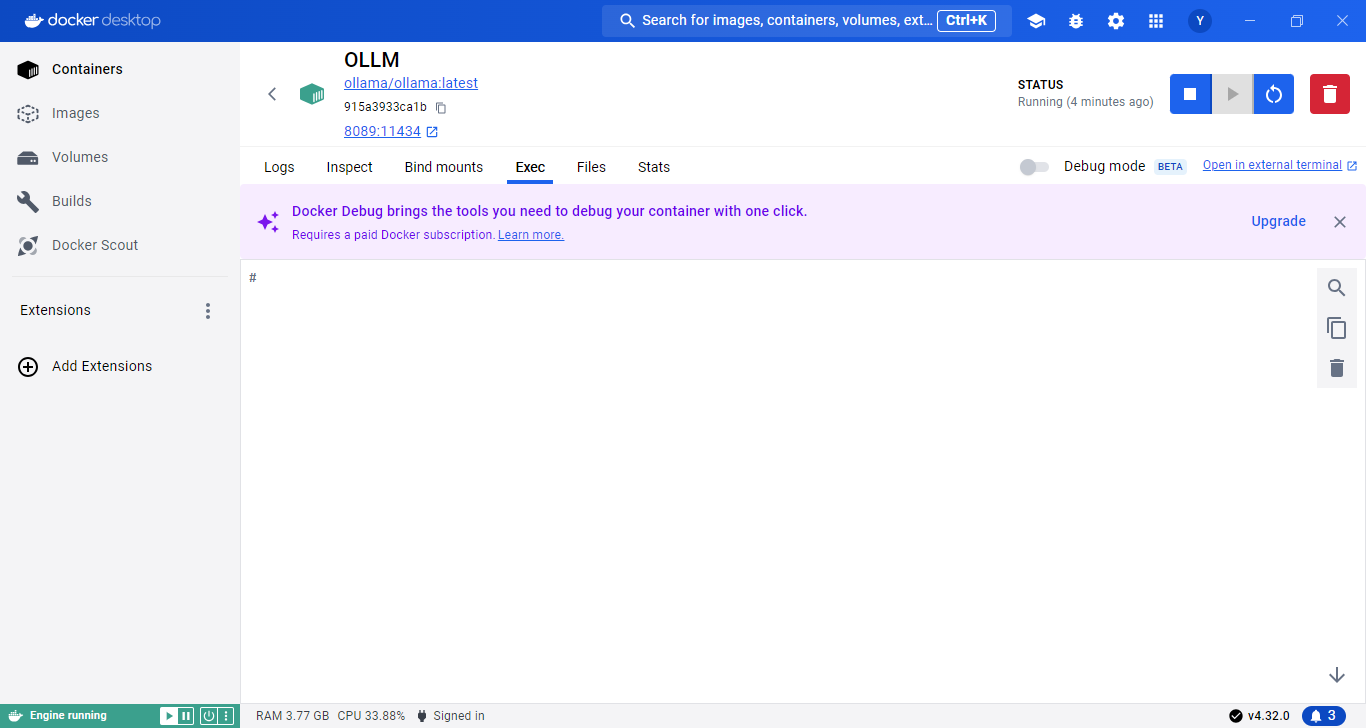
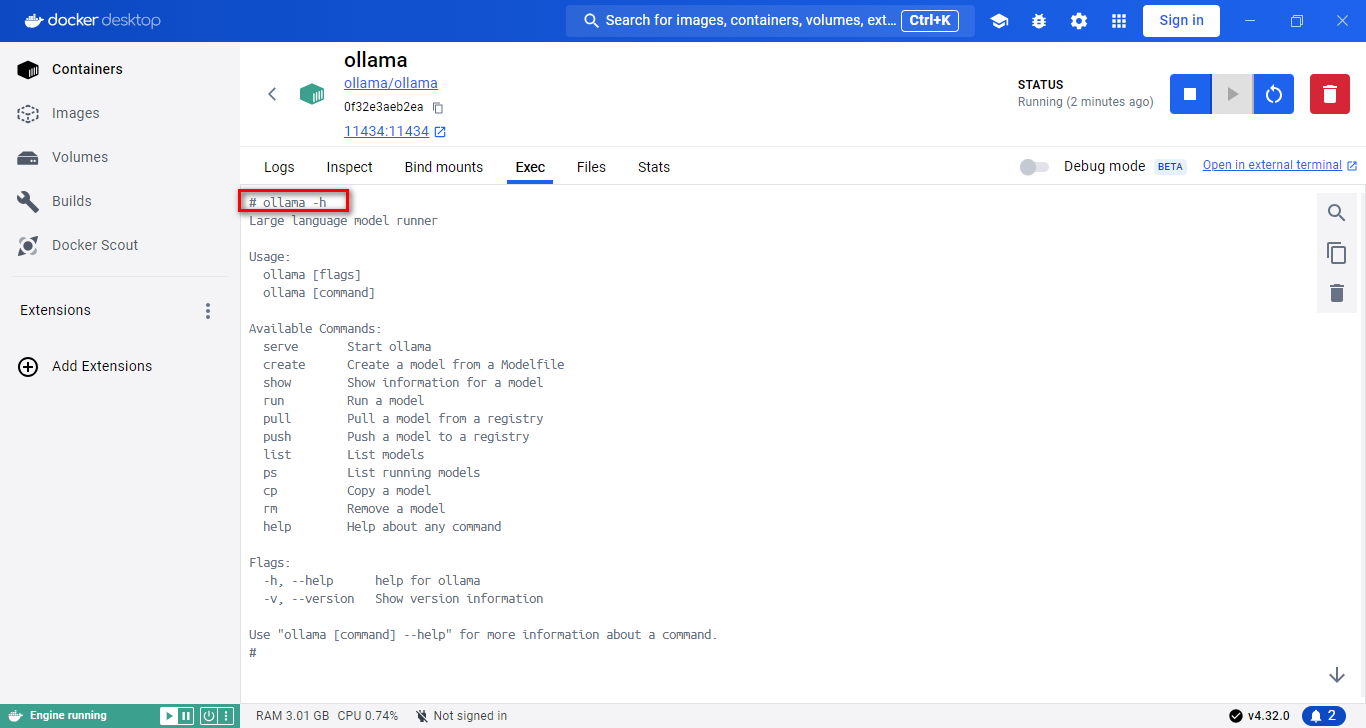
Update C2 format

diff --git a/docs/C2/2. Ollama在Windows下的安装与配置.md b/docs/C2/2. Ollama在Windows下的安装与配置.md
@@ -7,7 +7,7 @@
 * 访问官网直接完成下载
 * 环境变量配置
 * 运行Ollama
-* 验证
+* 验证安装成功🎉
 
 ## 一、访问官网直接完成下载
 
@@ -18,11 +18,9 @@
    >
 
    ![1](../images/C2-2-1.png)
-
 2. 等待浏览器下载文件OllamaSetup.exe，完成后双击该文件，出现如下弹窗，点击 `Install`等待下载完成即可。
 
    ![img](../images/C2-2-2.png)
-
 3. 安装完成后，可以看到Ollama已经默认运行了。可以通过底部的导航栏找到Ollama标志，并右键后点击 `Quit Ollama` 退出Ollama或者查看 `logs`。
 
    ![](../images/C2-2-3.png)
@@ -56,7 +54,7 @@
 ollama serve
 ```
 
-> 启动ollama时会报错如下，因为Windows系统安装Ollama时会**默认开机启动**。
+> 启动ollama时会报错如下，因为Windows系统安装Ollama时会**默认开机启动，**Ollama**服务默认**是**http://127.0.0.1:11434**
 >
 > `Error: listen tcp 127.0.0.1:11434: bind: Only one usage of each socket address (protocol/network address/port) is normally permitted.`
 
@@ -88,11 +86,20 @@ tasklist|findstr "17556"
 
 > 输出如下：`ollama.exe 17556 Console 1 31,856 K`
 
-## 四、验证
+## 四、验证安装成功🎉
 
-终端输入 `Ollama`，输出如下：🎉
+- 终端输入：
 
 ```bash
+ollama -h
+```
+
+输出如下：即表示安装成功🎉
+
+```bash
+
+Large language model runner
+
 Usage:
   ollama [flags]
   ollama [command]
@@ -114,6 +121,19 @@ Flags:
   -h, --help      help for ollama
   -v, --version   Show version information
 ```
+
+- 终端使用Ollama :
+
+
+> [library (ollama.com)](https://ollama.com/library)这里是ollama的模型库，搜索你想要的模型，然后直接启动！
+
+```bash
+ollama run llama3
+```
+
+> 下载速度取决于你的带宽，下载完毕即可使用✌记得使用 `control + D`退出聊天
+
+![XIA](../images/C2-2-5.png)
 
 ## 参考链接
 

diff --git a/docs/C2/3. Ollama在Linux下的安装与配置.md b/docs/C2/3. Ollama在Linux下的安装与配置.md
@@ -19,21 +19,51 @@ curl -fsSL https://ollama.com/install.sh | sh
 
 ![](../images/C2-3-2.png)
 
-此命令将自动下载最新版本的Ollama并完成安装。
+此命令将自动下载最新版本的Ollama并完成安装，以下是ollama使用常见的指令：
 
 ```bash
-#使用感觉和docker类似，输出ollama就会有提示
-ollama serve        #启动ollama
+
+ollama serve         #启动ollama
 ollama create        #从模型文件创建模型
-ollama show                #显示模型信息
-ollama run                #运行模型
-ollama pull                #从注册表中拉取模型
-ollama push                #将模型推送到注册表
-ollama list                #列出模型
-ollama cp                #复制模型
-ollama rm                #删除模型
-ollama help                #获取有关任何命令的帮助信息
+ollama show          #显示模型信息
+ollama run           #运行模型
+ollama pull          #从注册表中拉取模型
+ollama push          #将模型推送到注册表
+ollama list          #列出模型
+ollama cp            #复制模型
+ollama rm            #删除模型
+ollama help          #获取有关任何命令的帮助信息
 ```
+
+- 验证安装完成，在 `Exec`处输入：
+
+```bash
+ollama -h
+```
+
+输出如下：即表示安装成功🎉
+
+![](..\images\C2-3-3.png)
+
+- 开启并使用ollama
+
+首先，在终端中开启ollama，并在后台挂起
+
+```shell
+ollama serve
+```
+
+![](..\images\C2-3-4.png)
+
+>  [library (ollama.com)](https://ollama.com/library)这里是ollama的模型库，搜索你想要的模型，开启新的终端，启动！
+
+```bash
+ollama run llama3
+```
+
+> 下载速度取决于你的带宽，下载完毕即可使用✌记得使用 `control + D`退出聊天
+
+![](..\images\C2-4-5.png)
 
 ## 二、手动安装
 

diff --git a/docs/C2/4. Ollama在Docker下的安装与配置.md b/docs/C2/4. Ollama在Docker下的安装与配置.md
@@ -50,9 +50,69 @@ docker pull ollama/ollama:0.3.0-rocm
 
 - 在 `Containers`中找到该镜像，点击 `OLLM`即可进入ollama界面
 
-![](../images/C2-4-4.png)
+![img](../images/C2-4-4.png)
 
-![](../images/C2-4-5.png)
+- 验证安装完成，在 `Exec`处输入：
+
+```bash
+ollama -h
+```
+
+输出如下：即表示安装成功🎉
+
+```bash
+
+Large language model runner
+
+Usage:
+  ollama [flags]
+  ollama [command]
+
+Available Commands:
+  serve       Start ollama
+  create      Create a model from a Modelfile
+  show        Show information for a model
+  run         Run a model
+  pull        Pull a model from a registry
+  push        Push a model to a registry
+  list        List models
+  ps          List running models
+  cp          Copy a model
+  rm          Remove a model
+  help        Help about any command
+
+Flags:
+  -h, --help      help for ollama
+  -v, --version   Show version information
+```
+
+![img](..\images\C2-4-5.png)
+
+- 终端使用Ollama :
+
+以下是ollama使用常见的指令：
+
+```bash
+
+ollama serve         #启动ollama
+ollama create        #从模型文件创建模型
+ollama show          #显示模型信息
+ollama run           #运行模型
+ollama pull          #从注册表中拉取模型
+ollama push          #将模型推送到注册表
+ollama list          #列出模型
+ollama cp            #复制模型
+ollama rm            #删除模型
+ollama help          #获取有关任何命令的帮助信息
+```
+
+> [library (ollama.com)](https://ollama.com/library)这里是ollama的模型库，搜索你想要的模型，然后直接启动！
+
+```bash
+ollama run llama3
+```
+
+> 下载速度取决于你的带宽，下载完毕即可使用✌记得使用 `control + D`退出聊天
 
 **方式二：命令行启动**
 
